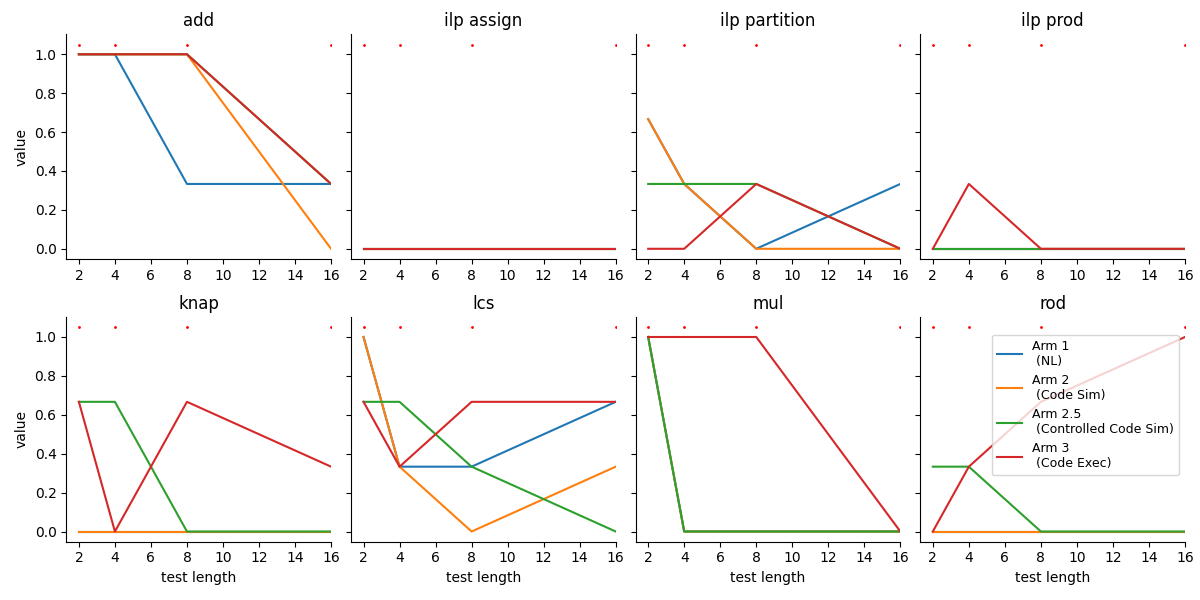
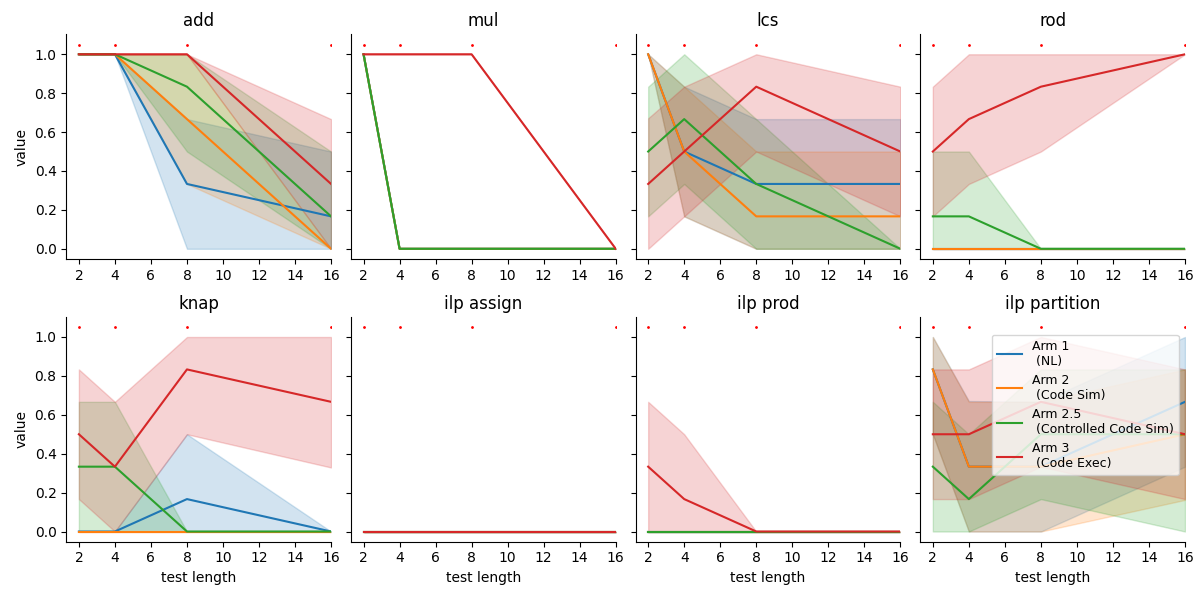
added config.py to logistic

diff --git a/src/exps_logistic/config.py b/src/exps_logistic/config.py
@@ -1,0 +1,100 @@
+#!/usr/bin/env python3
+"""Configuration and argument parsing for logistic regression experiments."""
+
+import argparse
+from dataclasses import dataclass
+from typing import Optional
+
+
+@dataclass
+class ExperimentConfig:
+    """Configuration for the logistic regression concept classification experiment."""
+
+    # Data sources
+    tbdir: Optional[str] = None
+    csv: Optional[str] = None
+    rep: str = "all"  # nl, code, or all
+
+    # Label configuration
+    label: str = "gamma"  # theta_new, gamma, or kind
+    value_bins: int = 8
+    test_size: float = 0.2
+    seed: int = 0
+    cv: int = 0
+
+    # Feature extraction
+    feats: str = "tfidf"  # tfidf, hf-cls, st, openai
+    embed_model: Optional[str] = None
+    pool: str = "mean"  # mean or cls
+    device: Optional[str] = None
+    batch: int = 128
+    strip_fences: bool = False
+
+    # Classifier
+    C: float = 2.0
+    max_iter: int = 400
+
+    # Reporting
+    bits: bool = False
+    save_preds: Optional[str] = None
+
+
+def parse_args() -> ExperimentConfig:
+    """Parse command-line arguments and return an ExperimentConfig."""
+    p = argparse.ArgumentParser(description="CoT -> joint label classification with LM embeddings + multinomial logistic regression.")
+
+    # Data sources
+    p.add_argument("--tbdir", type=str, default=None, help="Read rationales directly from TensorBoard logs")
+    p.add_argument("--csv", type=str, default=None, help="CSV with columns: rationale, kind, digits, [prompt], [rep], [split]")
+    p.add_argument("--rep", choices=["nl", "code", "all"], default="all")
+
+    # Label configuration
+    p.add_argument(
+        "--label",
+        choices=["theta_new", "gamma", "kind"],
+        default="gamma",
+        help="Classification target: θ_new=(kind,digits) or γ=(kind,digits,value-bin) or kind only.",
+    )
+    p.add_argument("--value-bins", type=int, default=8, help="Number of equal-width bins per operand for gamma.")
+    p.add_argument("--test-size", type=float, default=0.2)
+    p.add_argument("--seed", type=int, default=0)
+    p.add_argument("--cv", type=int, default=0, help="K-fold cross-validation (0 to disable)")
+
+    # Feature extraction
+    p.add_argument("--feats", choices=["tfidf", "hf-cls", "st", "openai"], default="tfidf")
+    p.add_argument("--embed-model", type=str, default=None, help="hf-cls: HF repo; st: ST repo; openai: embedding model.")
+    p.add_argument("--pool", choices=["mean", "cls"], default="mean", help="Pooling for hf-cls.")
+    p.add_argument("--device", type=str, default=None, help="Force device for hf-cls/st (e.g. cuda, cpu).")
+    p.add_argument("--batch", type=int, default=128, help="Batch size for OpenAI embeddings.")
+    p.add_argument("--strip-fences", action="store_true", help="Strip ``` code fences before embedding.")
+
+    # Classifier
+    p.add_argument("--C", type=float, default=2.0, help="Regularization strength")
+    p.add_argument("--max_iter", type=int, default=400)
+
+    # Reporting
+    p.add_argument("--bits", action="store_true", help="Report CE in bits and print MI lower bound.")
+    p.add_argument("--save-preds", type=str, default=None, help="Optional path to save test predictions CSV.")
+
+    args = p.parse_args()
+
+    return ExperimentConfig(
+        tbdir=args.tbdir,
+        csv=args.csv,
+        rep=args.rep,
+        label=args.label,
+        value_bins=getattr(args, "value_bins", 8),
+        test_size=getattr(args, "test_size", 0.2),
+        seed=args.seed,
+        cv=args.cv,
+        feats=args.feats,
+        embed_model=getattr(args, "embed_model", None),
+        pool=args.pool,
+        device=args.device,
+        batch=args.batch,
+        strip_fences=getattr(args, "strip_fences", False),
+        C=args.C,
+        max_iter=args.max_iter,
+        bits=args.bits,
+        save_preds=getattr(args, "save_preds", None),
+    )

diff --git a/src/exps_performance/analysis.py b/src/exps_performance/analysis.py
@@ -16,7 +16,8 @@ def plot_main_fig(df):
     #     train_lengths_dict[alg] = np.array(train_length)
     sns.reset_defaults()
     # import pdb; pdb.set_trace()
-    df1 = df[df["model"] == "Qwen/Qwen2.5-14B-Instruct"]
+    df1 = df[df["model"].isin(["Qwen/Qwen2.5-14B-Instruct", "mistralai/Mistral-Small-24B-Instruct-2501"])]
+    # df1 = df
     df2 = df1[df1["kind"].isin(["add", "mul", "lcs", "rod", "knap", "ilp_assign", "ilp_prod", "ilp_partition"])]
     name_map = {
         "nl_correct": "Arm 1 \n (NL)",
@@ -28,8 +29,8 @@ def plot_main_fig(df):
 
     cols = list(name_map.values())
     mdf = pd.melt(dfnew, value_vars=cols, id_vars=["kind", "digit"])
-    mdf1 = mdf.groupby(["variable", "digit", "kind"]).mean().reset_index()
-    g = sns.FacetGrid(mdf1, col="kind", col_wrap=4, hue="variable", hue_order=cols, sharex=False)
+    # mdf1 = mdf.groupby(["variable", "digit", "kind"]).mean().reset_index()
+    g = sns.FacetGrid(mdf, col="kind", col_wrap=4, hue="variable", hue_order=cols, sharex=False)
     g.map(sns.lineplot, "digit", "value")
     g.set_titles("{col_name}")
 
@@ -60,7 +61,9 @@ def plot_v_graph(df):
     rcParams["markers.fillstyle"] = "none"
     fig, ax = plt.subplots(figsize=(6, 6))
     cols = ["nl_correct", "sim_correct", "controlsim_correct", "code_correct"]
-    melted_df = pd.melt(df, value_vars=cols, id_vars=["model"])
+    df1 = df[df["kind"].isin(["add", "mul", "lcs", "rod", "knap", "ilp_assign", "ilp_prod", "ilp_partition"])]
+
+    melted_df = pd.melt(df1, value_vars=cols, id_vars=["model"])
     # import pdb; pdb.set_trace()
     sns.pointplot(
         data=melted_df,
@@ -71,7 +74,7 @@ def plot_v_graph(df):
         linestyle="",
         alpha=0.8,
         marker="^",
-        palette=sorted(sns.color_palette("tab20", n_colors=5)[2:], key=lambda x: x[0] - x[2]),
+        palette=sorted(sns.color_palette("tab20", n_colors=5), key=lambda x: x[0] - x[2]),
         errorbar=None,
     )
     sns.lineplot(
@@ -90,7 +93,7 @@ def plot_v_graph(df):
     )
     ax.set_ylim([0, 1])
     plt.xlabel("Arm")
-    ax.set_xticklabels(["NL", "Sim", "Code", "ControlSim"])
+    ax.set_xticklabels(["NL", "Sim", "ControlSim", "Code"])
     plt.savefig("line", bbox_inches="tight")
 
 
@@ -121,8 +124,11 @@ def plot_p_vals(df):
     rcParams["legend.fontsize"] = 18
     rcParams["figure.titlesize"] = 18
     rcParams["markers.fillstyle"] = "none"
-    df1 = df[df["model"] == "Qwen/Qwen2.5-14B-Instruct"]
-    df2 = df1[df1["kind"].isin(["add", "mul", "lcs", "rod", "knap", "ilp_assign", "ilp_prod", "ilp_partition"])]
+    # df1 = df[df["model"] == "Qwen/Qwen2.5-14B-Instruct"]
+    # df1 = df
+    df1 = df[df["model"].isin(["Qwen/Qwen2.5-14B-Instruct", "mistralai/Mistral-Small-24B-Instruct-2501"])]
+    df2 = df1
+    # df2 = df1[df1["kind"].isin(["add", "mul", "lcs", "rod", "knap", "ilp_assign", "ilp_prod", "ilp_partition"])]
     name_map = {
         "nl_correct": "Arm 1 \n (NL)",
         "sim_correct": "Arm 2 \n (Code Sim)",
@@ -162,7 +168,7 @@ def plot_p_vals(df):
     ax.set_ylabel("Accuracy")
 
     ax.set_ylim(0, y + 0.5)
-    plt.ylim(0, 1.3)
+    plt.ylim(0, 1.5)
     plt.title("Accuracy across Arms on Fine-grained Tasks")
     plt.tight_layout()
     plt.show()
@@ -172,8 +178,9 @@ def plot_p_vals(df):
 def analysis():
     files = walk_results_folder("/nlpgpu/data/terry/ToolProj/src/exps_performance/results")  # check files are deepseek and gemma, seed 1 and 2
     df = create_big_df(files)
-    # plot_p_vals(df)
+    plot_p_vals(df)
     plot_main_fig(df)
+    plot_v_graph(df)
 
     # rows = df.to_dict("records")
     # import pdb

diff --git a/src/exps_performance/llm.py b/src/exps_performance/llm.py
@@ -72,7 +72,7 @@ class DummyClient(LLMClient):
 
 
 openai_api_key = "EMPTY"
-openai_api_base = "http://localhost:8000/v1"
+openai_api_base = "http://localhost:8000/v1/"
 
 
 class OpenAIChatClient(LLMClient):
